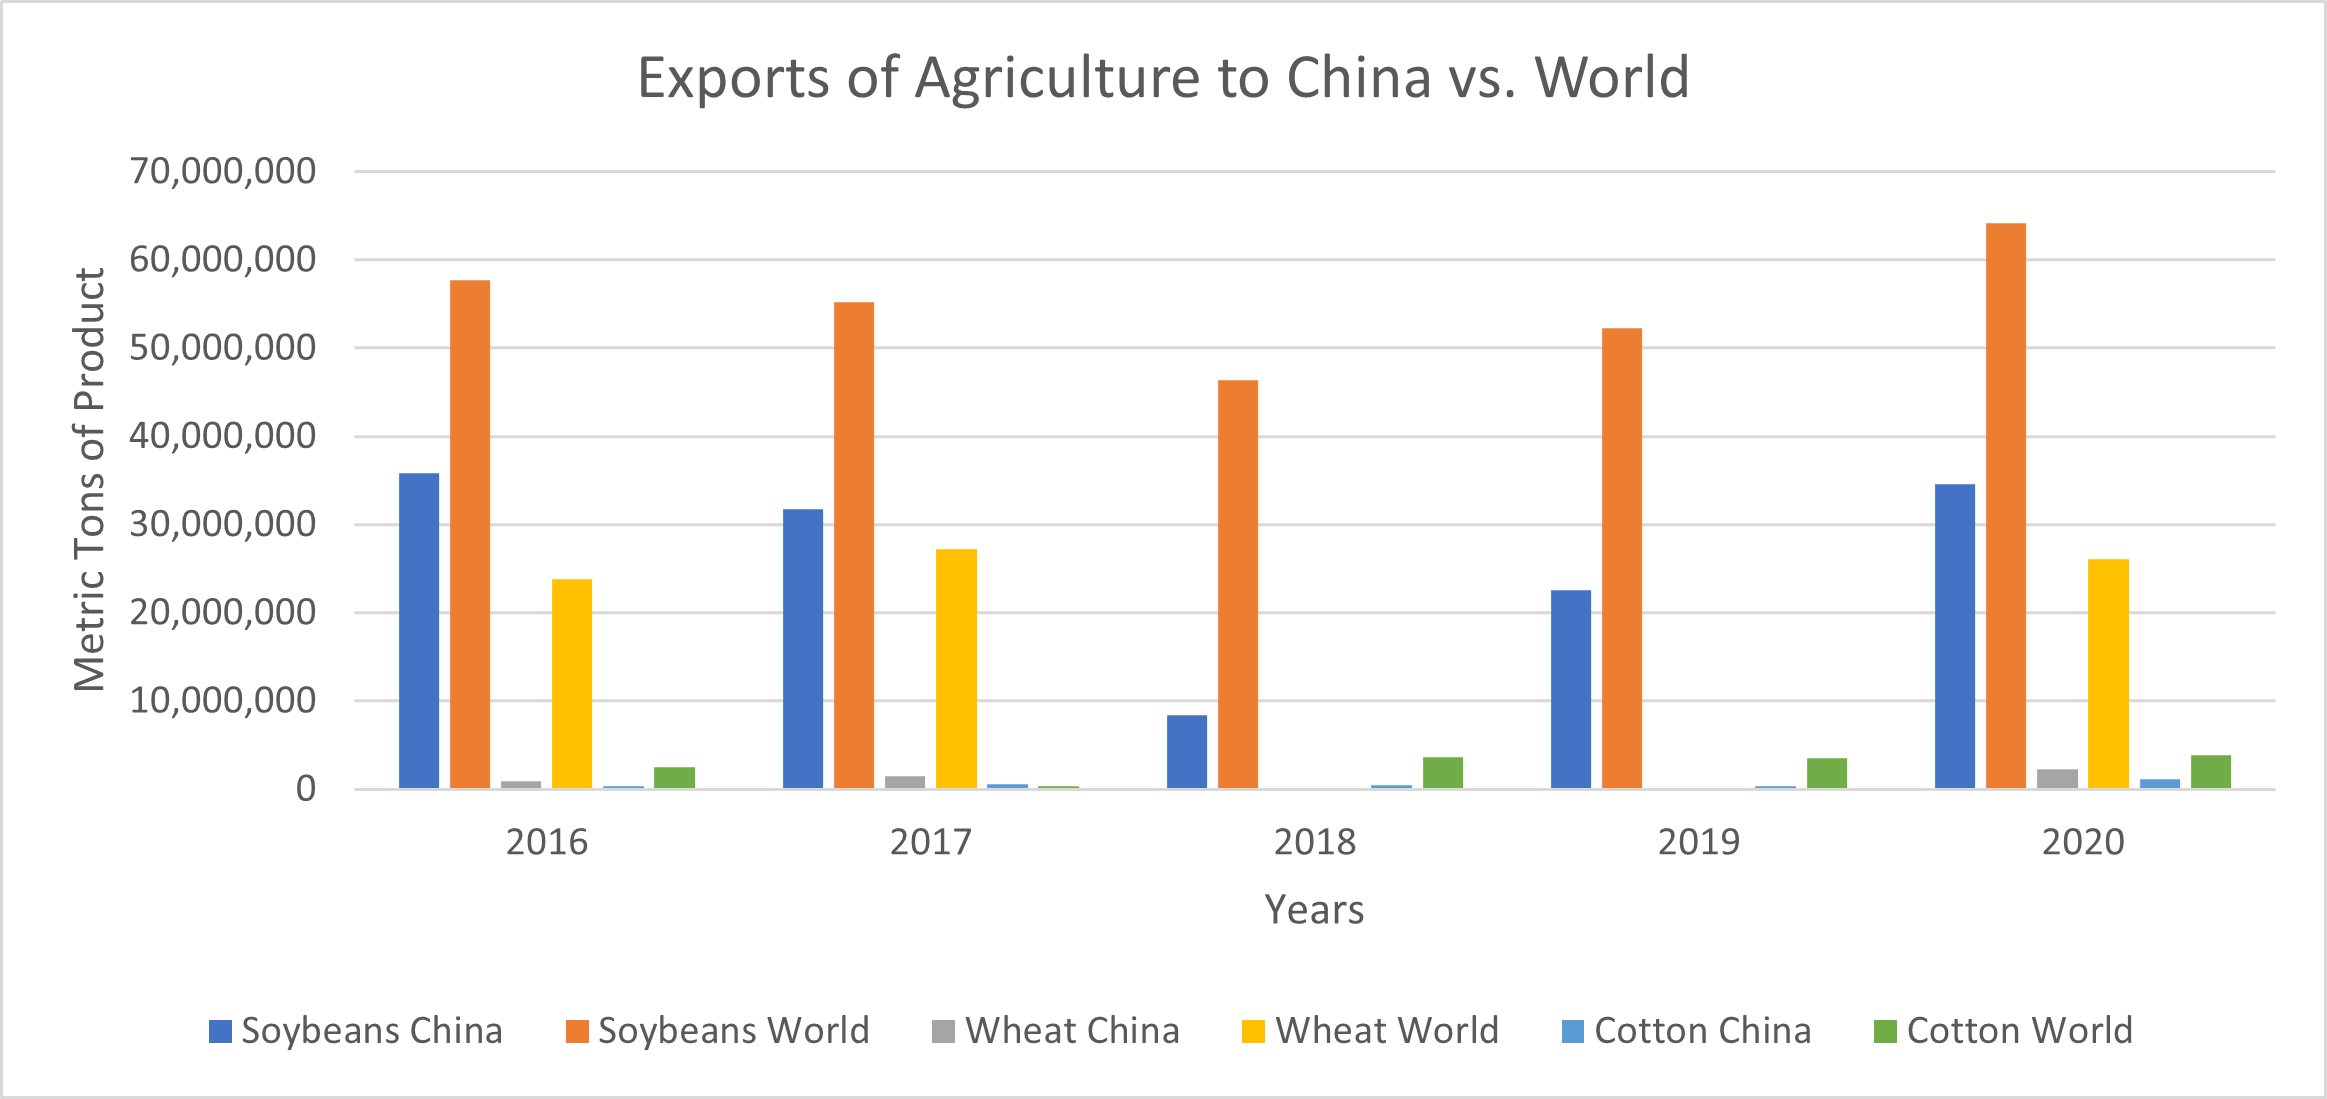
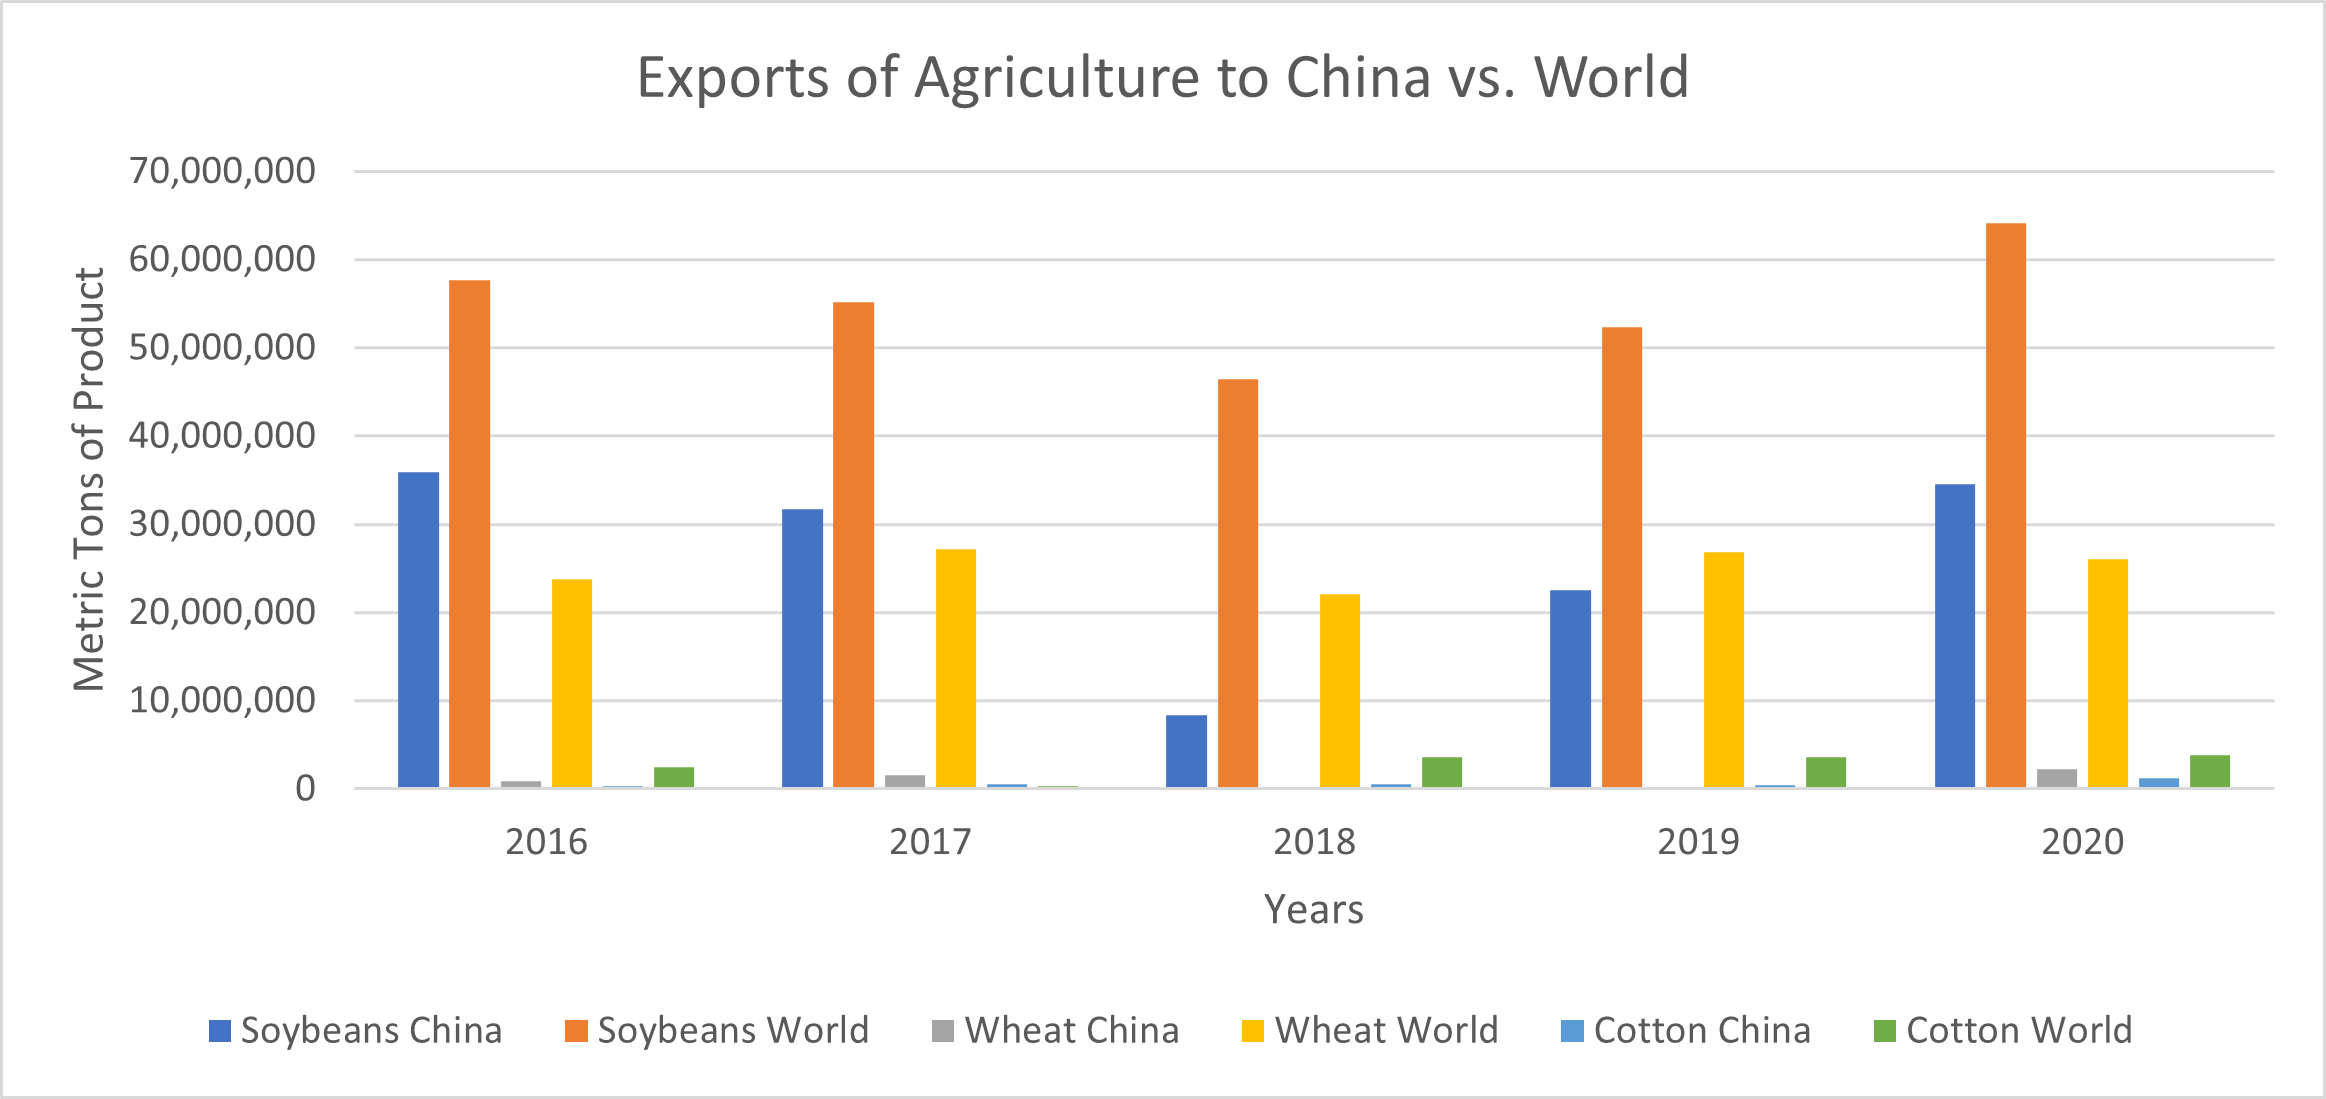
update

diff --git a/README.md b/README.md
@@ -41,11 +41,23 @@ Links for all the datasets in the folder /files are located, as well as notes on
 ## Injuiry Question ##
 Using data on GDP and public availablity on Imports/Exports on which tariffs were put on, measure effectiveness for both nations and conclude on overall trends which the data implies. Predict short-term and long-term affects if tariffs are still in place as they were when they began.
 
+### Key Points of Examination ###
+* Differences in US Automotive, Tech, and Agriculture Industries
+
+* Differences in Tech & Business Imports from China
+
+* GDP Examination
+
+* Examine China's Claim
+	> Claim: "Tariffs are effecting US economy more than its own."
+
 ## Analysis ##
 
 ### US Agriculture Exports ###
 
 ![Agriculture](https://github.com/eric-wisniewski/capstone_2021/blob/main/Graphs/US_Exp_Agr_Comp.png)
+
+Getting the data from the United States Department of Agriculutre, a reliable government agency, I wanted to observe the trends two years prior, and two years after the tariffs began. I decided to cut down the main exports from US to China to three main crops. Soybeans, Wheat, and Cotton. To really observe how effected the farmers were, I compared the total exports of the crops in the world to only China. The only missing values are exports of wheat to China in 2018 & 2019 due to China being top 10 in exports.
 
 ### US Vehicle Domestic Production & Sales ###
 
